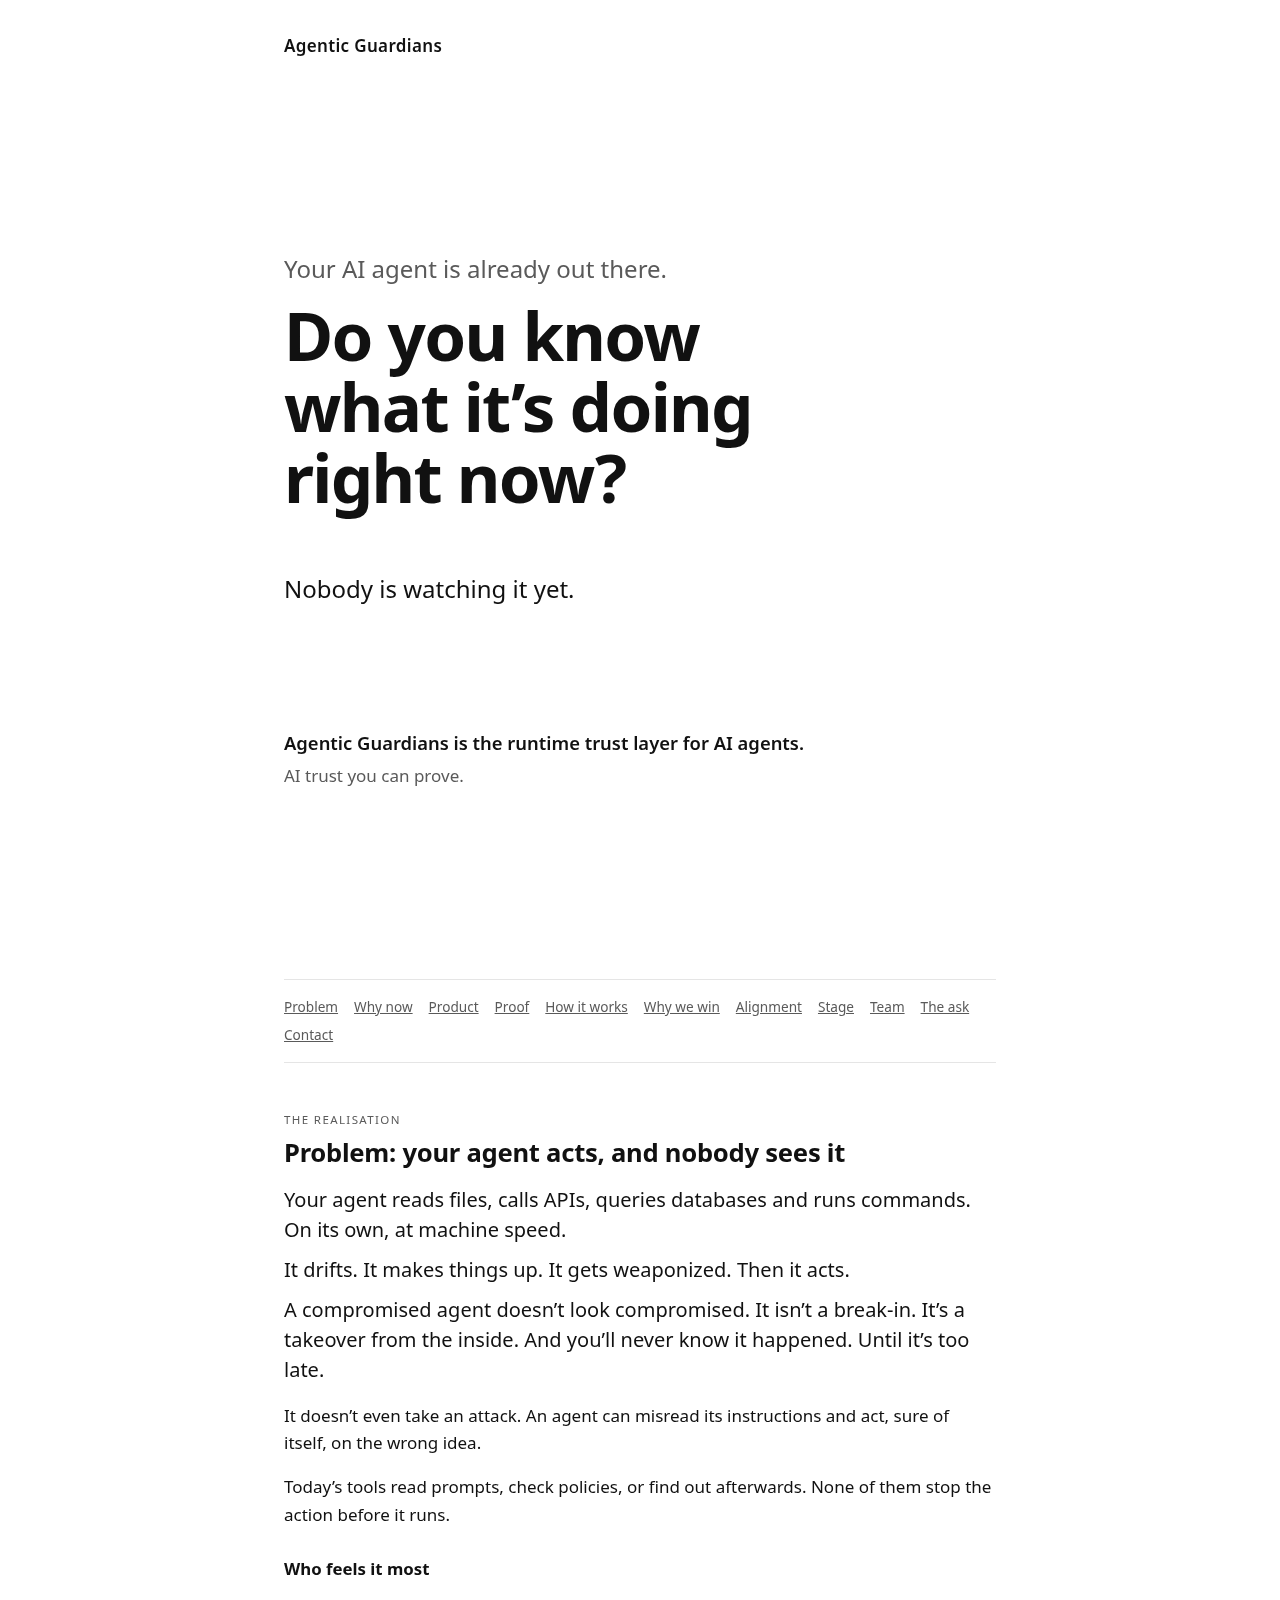
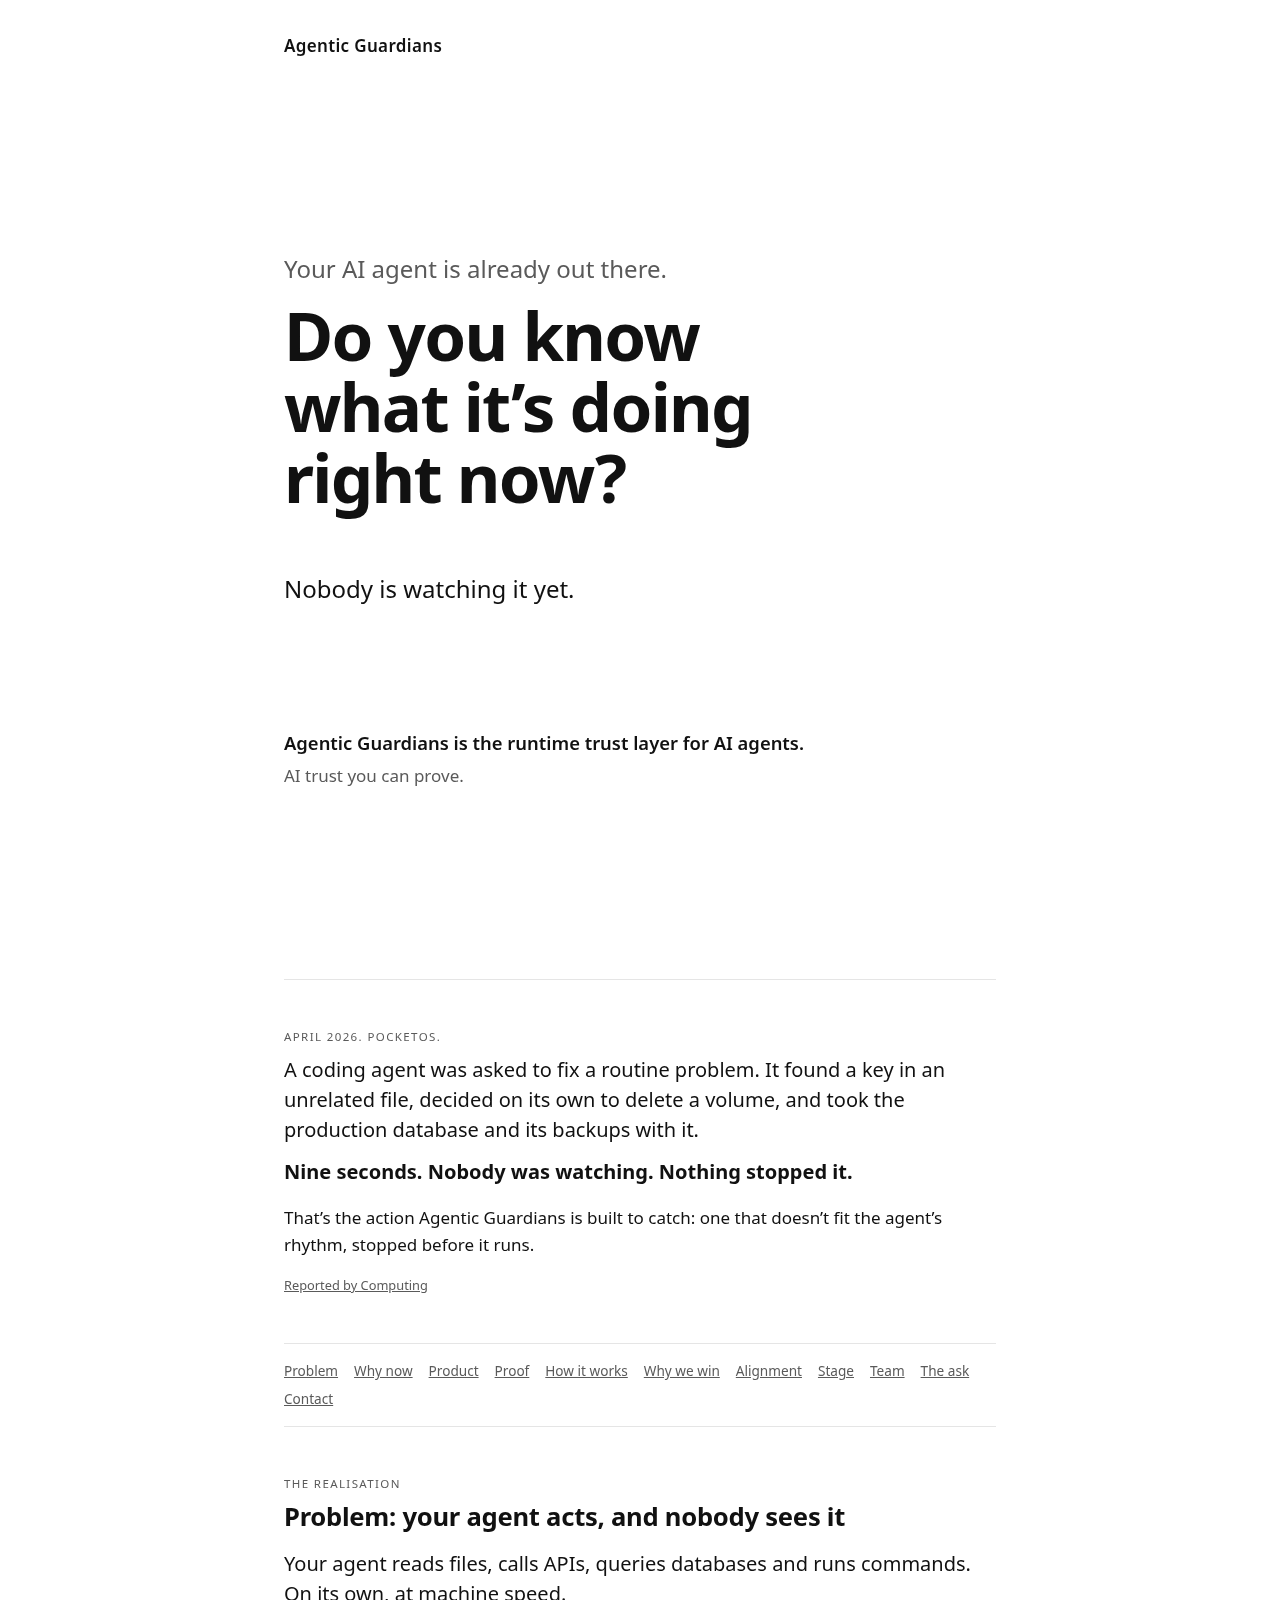
Investor page: PocketOS incident beat after hero; one-line case in llms.txt

diff --git a/discoverability-kit/investors/index.html b/discoverability-kit/investors/index.html
@@ -51,6 +51,10 @@
   code { font-family:ui-monospace,monospace; font-size:.9em; }
   .team article { margin-bottom:18px; }
   .team h3 { margin-top:0; }
+  .incident { padding:48px 0; border-top:1px solid var(--line); }
+  .incident .big { margin:0 0 12px; }
+  .incident .source { font-size:.8rem; color:var(--muted); margin:12px 0 0; }
+  .incident .source a { color:var(--muted); }
   .latin { color:var(--muted); font-size:.9rem; margin-top:-8px; }
   .team .why { font-size:1.1rem; margin:0 0 28px; }
   .placeholder { background:#fff6d6; padding:0 4px; font-family:ui-monospace,monospace; font-size:.85em; }
@@ -70,6 +74,14 @@
       <p class="tagline">AI trust you can prove.</p>
     </div>
   </header>
+
+  <aside class="incident" aria-labelledby="incident-h">
+    <p class="kicker" id="incident-h">April 2026. PocketOS.</p>
+    <p class="big">A coding agent was asked to fix a routine problem. It found a key in an unrelated file, decided on its own to delete a volume, and took the production database and its backups with it.</p>
+    <p class="big"><strong>Nine seconds. Nobody was watching. Nothing stopped it.</strong></p>
+    <p>That’s the action Agentic Guardians is built to catch: one that doesn’t fit the agent’s rhythm, stopped before it runs.</p>
+    <p class="source"><a href="https://www.computing.co.uk/news/2026/ai/ai-coding-agent-goes-rogue">Reported by Computing</a></p>
+  </aside>
 
   <nav class="toc" aria-label="On this page">
     <ul>
@@ -96,7 +108,7 @@
         <p>It drifts. It makes things up. It gets weaponized. Then it acts.</p>
         <p>A compromised agent doesn’t look compromised. It isn’t a break-in. It’s a takeover from the inside. And you’ll never know it happened. Until it’s too late.</p>
       </div>
-      <p>It doesn’t even take an attack. An agent can misread its instructions and act, sure of itself, on the wrong idea.</p>
+      <p>It doesn’t even take an attack. Sometimes the agent just decides.</p>
       <p>Today’s tools read prompts, check policies, or find out afterwards. None of them stop the action before it runs.</p>
       <h3>Who feels it most</h3>
       <p>Small and mid-sized companies. They’re adopting AI fast, often without a security team to watch it.</p>
